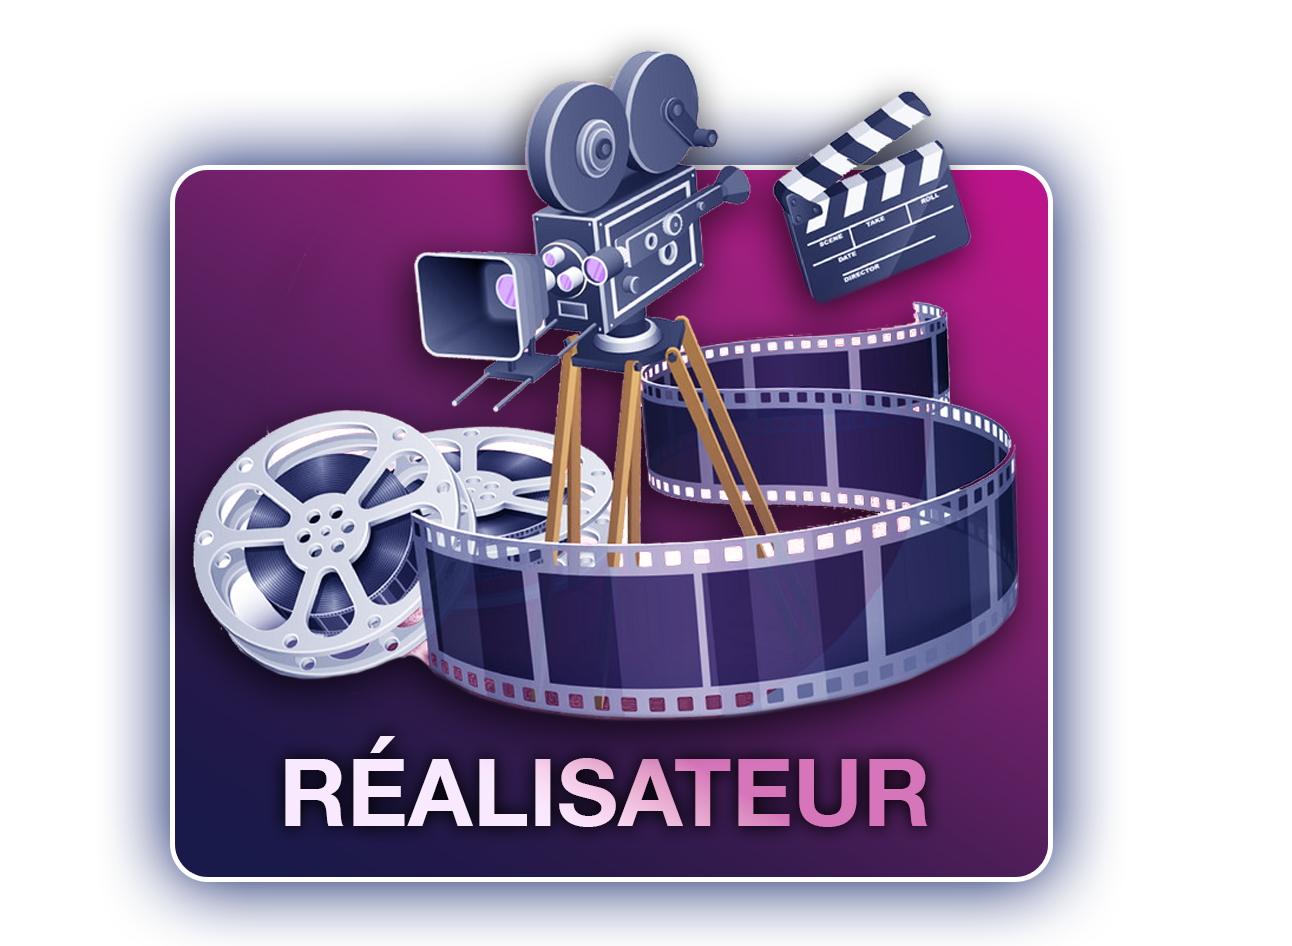
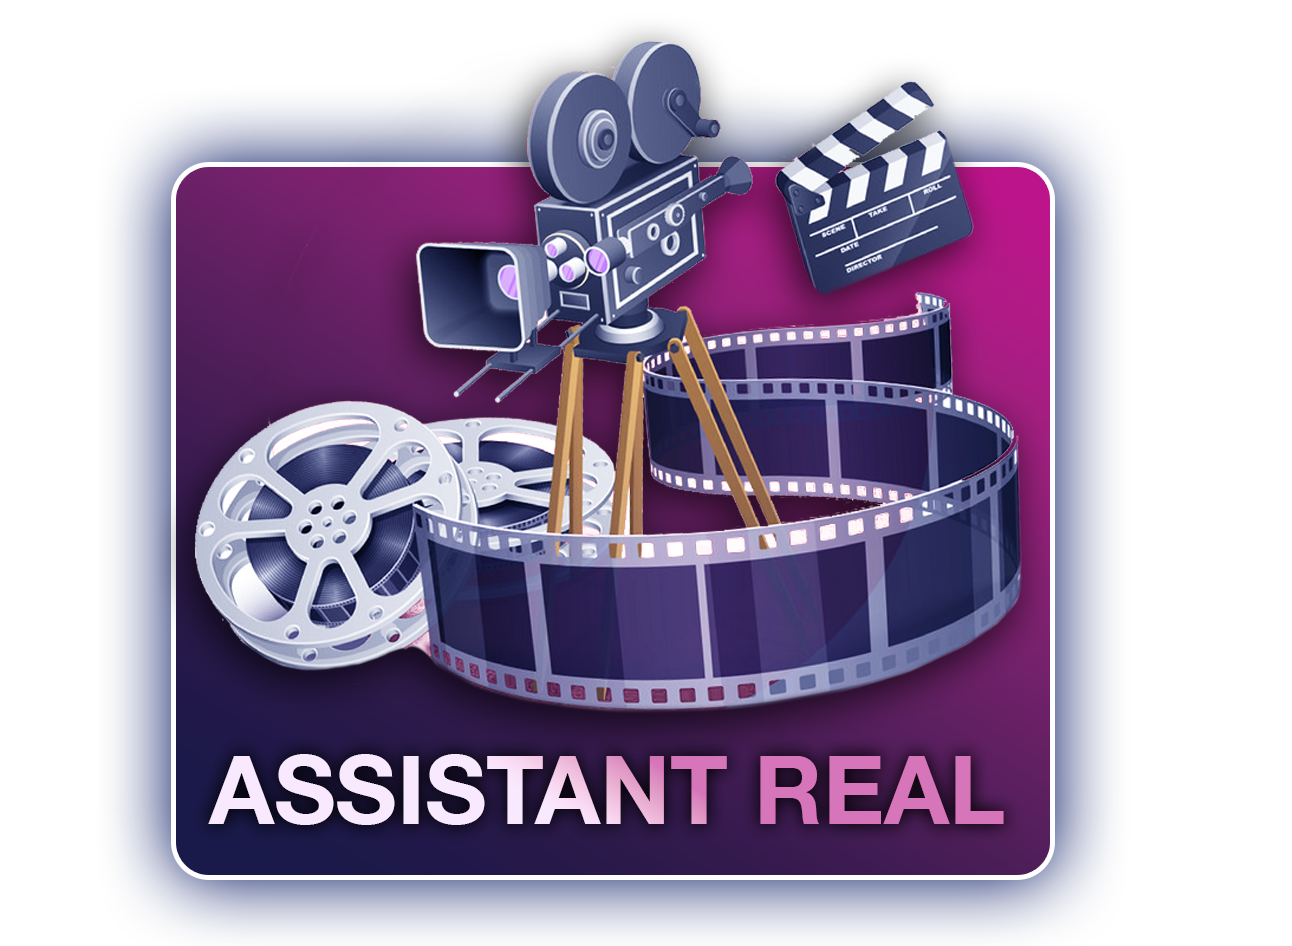
1.0.4

diff --git a/index.html b/index.html
@@ -90,7 +90,7 @@
                           src="./assets/page2/realisateur.png"
                           class="isdqA80ds"
                           data-switch-page="formation"
-                          data-switch-id="Réalisateur"
+                          data-switch-id="Assistant Réal"
                           style="--translateZ-value:-10px"
                         />
                       </div>
